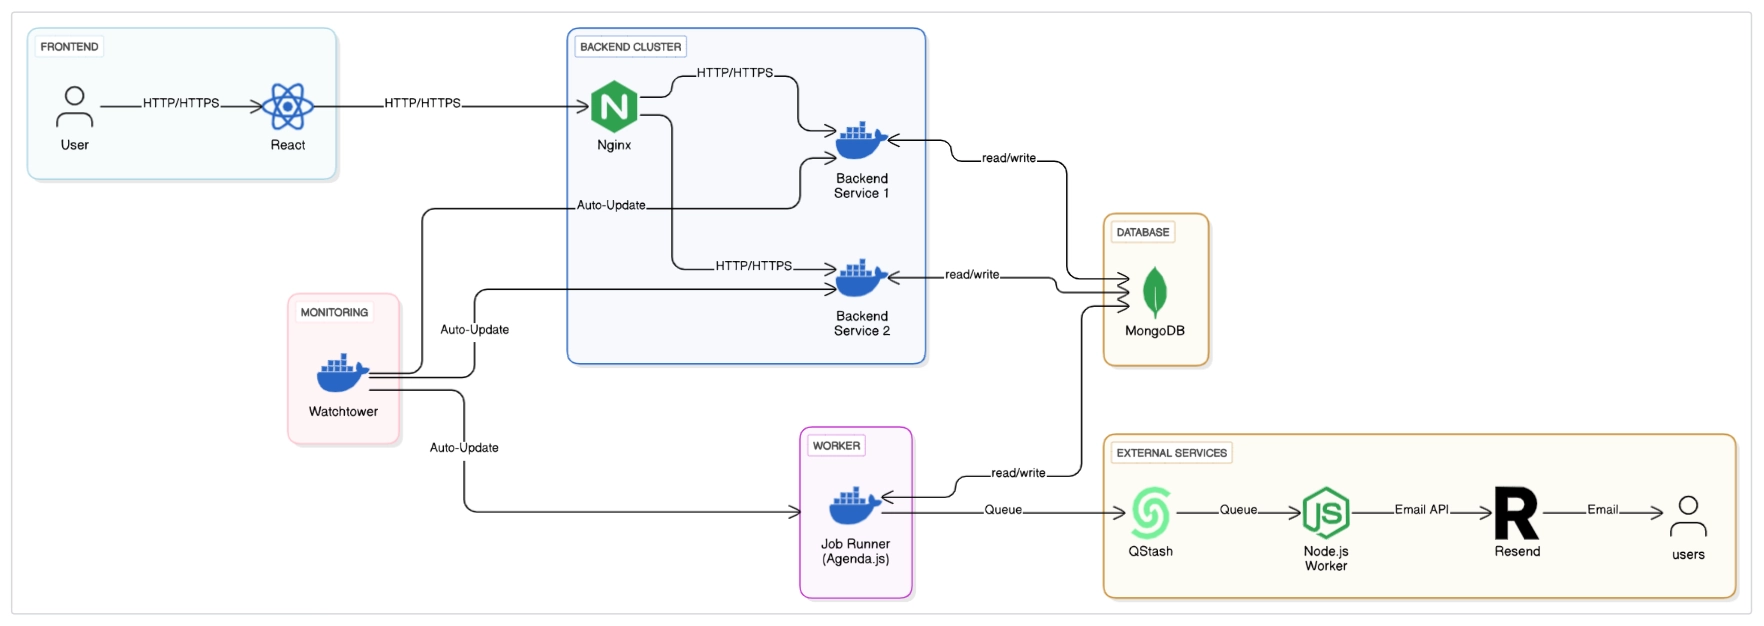
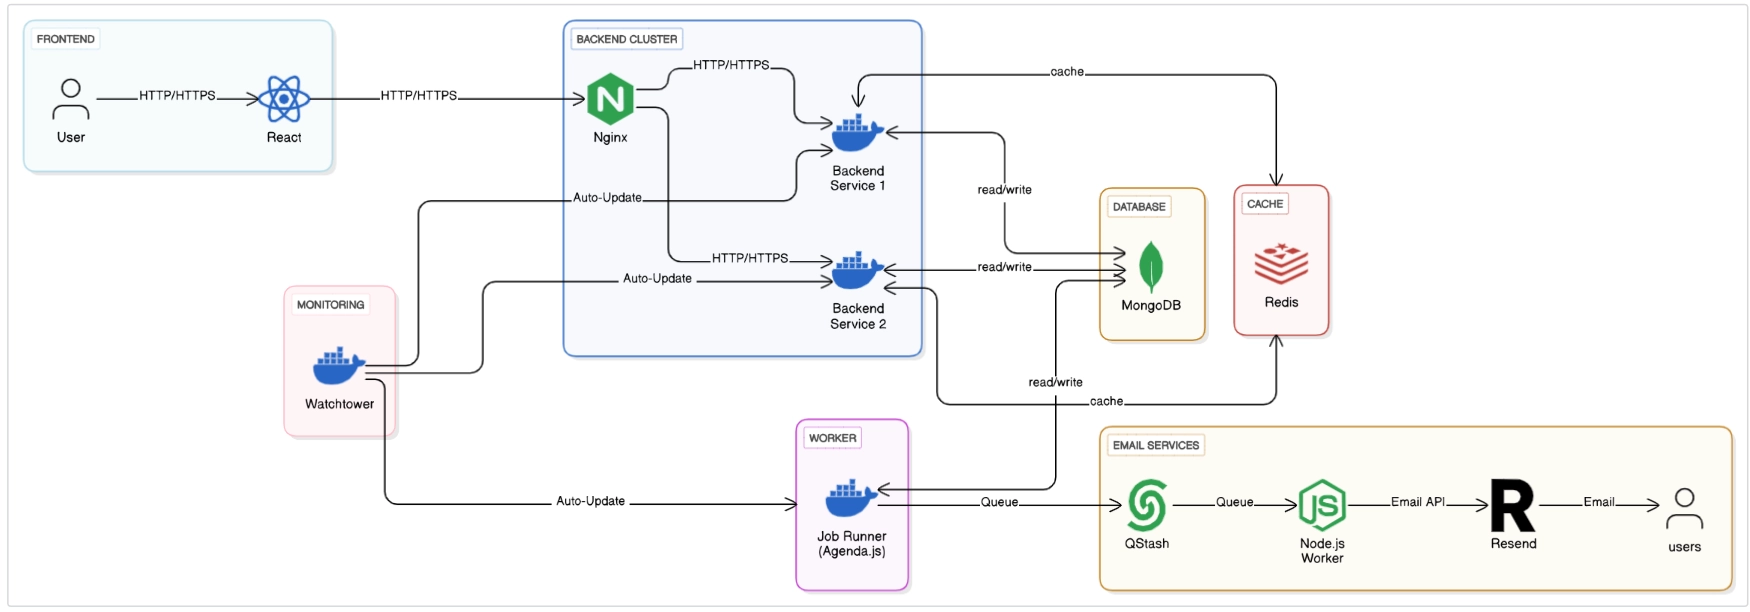
saving logs24HoursDetails at redis

diff --git a/Backend/src/controllers/user.controllers.ts b/Backend/src/controllers/user.controllers.ts
@@ -8,7 +8,7 @@ import { AppError, BadRequestError, ForbiddenError, InternalServerError, NotFoun
 import redis from "../config/redis.config";
 
 export const handleUserLogin = async (req: Request, res: Response, next: NextFunction): Promise<void> => {
-    const email = req.body.email.toLowerCase();
+    const email = req.body.email.trim().toLowerCase();
     const password = req.body.password;
 
     try {
@@ -44,8 +44,10 @@ export const handleUserLogin = async (req: Request, res: Response, next: NextFun
 }
 
 export const handleUserRegister = async (req: Request, res: Response, next: NextFunction): Promise<void> => {
-    const { name, email, password, timezone = 'UTC' } = req.body;
-
+    const { name, timezone = 'UTC' } = req.body;
+    const password = req.body.password.trim();
+    const email = req.body.email.trim().toLowerCase();
+    
     try {
         const user = await userModel.findOne({ email });
 
@@ -57,7 +59,7 @@ export const handleUserRegister = async (req: Request, res: Response, next: Next
         const otp = Math.floor(100000 + Math.random() * 900000).toString();
 
         const newUser = await userModel.create({
-            name: name.trim(),
+            name,
             email,
             password,
             verified: false,
@@ -140,7 +142,7 @@ export const handleUserVerification = async (req: Request, res: Response, next: 
     } catch (error) {
         next(new InternalServerError("Error while verifying user email."));
     }
-};
+}
 
 export const handleOtpResend = async (req: Request, res: Response, next: NextFunction): Promise<void> => {
     const { userId } = req.body;
@@ -185,7 +187,7 @@ export const handleOtpResend = async (req: Request, res: Response, next: NextFun
     } catch (error) {
         next(new InternalServerError("Error while resending OTP. Please try again later."));
     }
-};
+}
 
 export const handleUserLogout = async (req: Request, res: Response, next: NextFunction): Promise<void> => {
     res.clearCookie("token");
@@ -221,7 +223,7 @@ export const handleChangeUserDetails = async (req: Request, res: Response, next:
     } catch (error) {
         next(new InternalServerError("Error while updating user details"));
     }
-};
+}
 
 export const handleGoogleCallBack = async (req: Request, res: Response, next: NextFunction): Promise<void> => {
     const user = req.user;
@@ -277,7 +279,8 @@ export const handleForgotPassword = async (req: Request, res: Response, next: Ne
 }
 
 export const handleResetPassword = async (req: Request, res: Response, next: NextFunction): Promise<void> => {
-    const { token, password } = req.body;
+    const { token } = req.body;
+    const { password } = req.body.trim();
     
     try {
         const email = await redis.get(`otptoken:${token}`);
@@ -306,4 +309,4 @@ export const handleResetPassword = async (req: Request, res: Response, next: Nex
     } catch (error) {
         next(new InternalServerError("Something went wrong. Please try again later."));
     }
-};
+}

diff --git a/Backend/src/controllers/log.controllers.ts b/Backend/src/controllers/log.controllers.ts
@@ -2,6 +2,7 @@ import { Request, Response, NextFunction } from "express";
 import logsModels from "../models/logs.models";
 import mongoose from "mongoose";
 import { InternalServerError, NotFoundError } from "../utils/appError.utils";
+import redis from "../config/redis.config";
 
 export const handleUserLogs = async (req: Request, res: Response, next: NextFunction): Promise<void> => {
   const { userId } = req.jwtUser;
@@ -24,7 +25,7 @@ export const handleUserLogs = async (req: Request, res: Response, next: NextFunc
   } catch (error) {
     next(new InternalServerError("Error while fetching user logs"));
   }
-};
+}
 
 export const handleJobLogs = async (req: Request, res: Response, next: NextFunction): Promise<void> => {
   const { jobId } = req.params;
@@ -89,6 +90,12 @@ export const handleGetLast24hoursLog = async (req: Request, res: Response, next:
   const { userId } = req.jwtUser;
 
   try {
+    const cached = await redis.get(`logsInsights_${userId}`);
+    if (cached) {
+      res.status(200).json(JSON.parse(cached));
+      return;
+    }
+
     const since = new Date(Date.now() - 24 * 60 * 60 * 1000);
 
     const insights = await logsModels.aggregate([
@@ -117,7 +124,7 @@ export const handleGetLast24hoursLog = async (req: Request, res: Response, next:
       },
       { $sort: { _id: 1 } }
     ]);
-
+    await redis.set(`logsInsights_${userId}`, JSON.stringify(insights), "EX", 60);
     res.status(200).json(insights);
 
   } catch (error) {

diff --git a/Frontend/src/pages/JobLogs.tsx b/Frontend/src/pages/JobLogs.tsx
@@ -28,16 +28,16 @@ export default function JobLogs() {
             return data;
         }).then(data => {
 
-            setJobName(data?.logs[0]?.name)
+            setJobName(data?.logs[0]?.name);
             setLogs(data.logs);
             setTotalPages(data.totalPages);
             setPage(data.page);
         }).catch(err => {
             console.error(err);
-            navigate("/jobs")
+            navigate("/jobs");
         }).finally(() => {
             setIsLoading(false);
-        })
+        });
 
     }, [jobId, navigate, page]);
 

diff --git a/Backend/src/config/redis.config.ts b/Backend/src/config/redis.config.ts
@@ -1,12 +1,7 @@
 import Redis from "ioredis";
 import logger from "../utils/logger.utils";
-const redis = new Redis({
-  host: process.env.REDIS_HOST!,
-  port: Number(process.env.REDIS_PORT!),
-  username: process.env.REDIS_USERNAME!,
-  password: process.env.REDIS_PASSWORD!,
-  tls: {}
-});
+
+const redis = new Redis(process.env.REDIS_URL!);
 
 redis.on("connect", () => {
   logger.info("Redis client connected");

diff --git a/Backend/src/models/user.models.ts b/Backend/src/models/user.models.ts
@@ -5,13 +5,15 @@ const userSchema = new mongoose.Schema({
     name: {
         type: String,
         required: true,
+        trim: true,
     },
     email: {
         type: String,
         required: true,
         unique: true,
         index: true,
-        lowercase: true
+        lowercase: true,
+        trim: true
     },
     verified: {
         type: Boolean,
